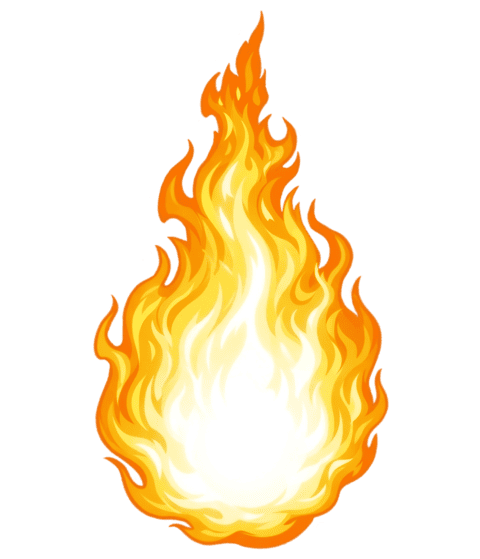
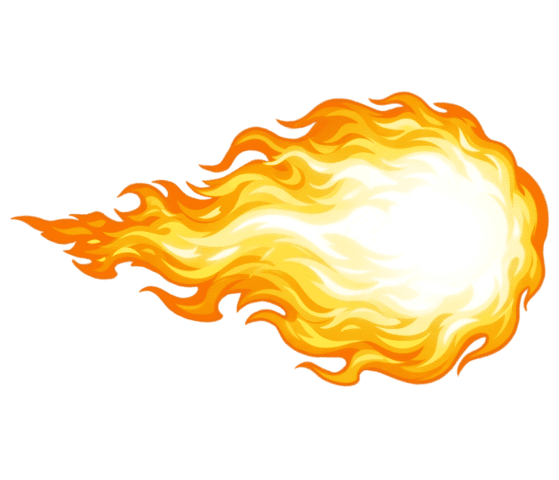
Fix soot, fireball visuals, and jump arc
Soot (flamethrower):
- Double rAF ensures CSS transition fires correctly on restore;
  CPU no longer stays permanently dark after being hit

Fireball:
- New horizontal fireball image (no rotation needed)
- scaleX(-1) via CSS variable for CPU→player direction
- Fireball now stops at target and dissolves with clip-path wipe
  from impact side (core disappears first, tail burns out)
- Removed off-screen continuation

Jump attack:
- Replaced decoupled CSS transition + keyframe with single RAF loop
  controlling X (ease-in-out) and Y (sin parabola) simultaneously
- Landing point calculated from actual defender chest position via
  getBoundingClientRect — no more hardcoded 67%
- Running jump variant (35% chance): bigger arc (-170px vs -132px),
  slightly longer duration (1050ms vs 880ms), shows run frames first

diff --git a/index.html b/index.html
@@ -651,13 +651,22 @@
             position: absolute;
             pointer-events: none;
             z-index: 15;
-            width: 52px;
+            width: 82px;
+            height: auto;
             filter: drop-shadow(0 0 8px #ff8800) drop-shadow(0 0 18px #ff4400) brightness(1.1);
+            transform-origin: center center;
         }
         @keyframes fp-fireball-wobble {
-            0%, 100% { transform: rotate(var(--rot, 0deg)) scaleX(1)   scaleY(1);   }
-            25%       { transform: rotate(var(--rot, 0deg)) scaleX(1.06) scaleY(0.96); }
-            75%       { transform: rotate(var(--rot, 0deg)) scaleX(0.96) scaleY(1.06); }
+            0%, 100% { transform: scaleX(var(--flip,1)) scaleY(1);    }
+            40%       { transform: scaleX(var(--flip,1)) scaleY(0.88); }
+        }
+        @keyframes fb-dissolve-right {
+            0%   { clip-path: inset(0 0%   0 0); opacity: 1; }
+            100% { clip-path: inset(0 100% 0 0); opacity: 0; }
+        }
+        @keyframes fb-dissolve-left {
+            0%   { clip-path: inset(0 0 0 0%  ); opacity: 1; }
+            100% { clip-path: inset(0 0 0 100%); opacity: 0; }
         }
 
         .fp-projectile {
@@ -14374,51 +14383,84 @@
                 stopRunAnimation(attackerEl);
                 playFootstep();
             } else if (event.jumpAttack) {
-                // Jump attack: arc up toward opponent, last attack frame at peak (rotated), landing reverse anim
-                const jaImg  = attackerEl.querySelector('img.character-png');
-                const jaBody = attackerEl.querySelector('.fighter-body');
-                const jaPeakAnimType = attackType; // punch or kick
-                const jaPeakFrames   = jaImg?.['_' + jaPeakAnimType + 'Frames'] || [];
-                // Rotation: punch 35°, kick 45° — mirrored for CPU
-                const rotAngle  = jaPeakAnimType === 'kick' ? 45 : 35;
-                // CPU img already has scaleX(-1) via CSS — must include it in inline transform
-                // or the flip is lost. Player has no base flip so just rotate.
-                const isCpuAtt  = attacker === 'cpu';
-                const baseXform = isCpuAtt ? 'scaleX(-1) ' : '';
+                const jaImg      = attackerEl.querySelector('img.character-png');
+                const jaPeakFrames = jaImg?.['_' + attackType + 'Frames'] || [];
+                const rotAngle   = attackType === 'kick' ? 45 : 35;
+                const isCpuAtt   = attacker === 'cpu';
+                const baseXform  = isCpuAtt ? 'scaleX(-1) ' : '';
 
+                // Running jump variant (35%): bigger arc + brief run-up
+                const isRunningJump = Math.random() < 0.35;
+                const JUMP_DUR  = isRunningJump ? 1050 : 880;
+                const PEAK_H    = isRunningJump ? -170 : -132;
+
+                // Airborne pose
                 if (jaImg) {
                     jaImg._idleSrc = jaImg._idleSrc || jaImg.src;
-                    // Frame 8 = airborne pose
                     jaImg.src = jaImg._runFrames?.[8] || jaImg.src;
-                    // At peak (~400ms): last attack frame, rotated diagonally downward
-                    if (jaPeakFrames.length > 0) {
-                        setTimeout(() => {
-                            jaImg.src = jaPeakFrames[jaPeakFrames.length - 1];
-                            jaImg.style.transition = 'transform 0.08s ease-out';
-                            jaImg.style.transform  = `${baseXform}rotate(${rotAngle}deg)`;
-                        }, 400);
-                    }
                 }
 
-                // Arc + horizontal travel — ease-in-out so arrival is gradual (less vertical drop feel)
-                if (jaBody) jaBody.classList.add('jump-attack-arc');
-                attackerEl.style.transition = 'left 0.93s ease-in-out, right 0.93s ease-in-out';
-                if (attacker === 'player') attackerEl.style.left  = '67%';
-                else                       attackerEl.style.right = '67%';
-                await sleep(950);
-                attackerEl.style.transition = '';
-                if (jaBody) jaBody.classList.remove('jump-attack-arc');
+                // Precise landing: attacker center lands at defender chest center
+                const arenaEl   = document.getElementById('arena');
+                const zoom      = getGameZoom();
+                const arenaRect = arenaEl.getBoundingClientRect();
+                const atkRect   = attackerEl.getBoundingClientRect();
+                const defBodyEl = defenderEl.querySelector('.fighter-body') || defenderEl;
+                const defRect   = defBodyEl.getBoundingClientRect();
+                const atkW      = atkRect.width  / zoom;
+                const arenaW    = arenaEl.offsetWidth;
+                const startLeft = (atkRect.left - arenaRect.left) / zoom;
+                const atkCx     = startLeft + atkW / 2;
+                const defCx     = (defRect.left - arenaRect.left) / zoom + (defRect.width / zoom) / 2;
+                const deltaX    = defCx - atkCx;
+
+                // Peak attack frame
+                const peakMs = JUMP_DUR * (isRunningJump ? 0.40 : 0.36);
+                let peakDone = false;
+                const peakTmr = setTimeout(() => {
+                    if (!peakDone && jaImg && jaPeakFrames.length > 0) {
+                        peakDone = true;
+                        jaImg.src = jaPeakFrames[jaPeakFrames.length - 1];
+                        jaImg.style.transition = 'transform 0.08s ease-out';
+                        jaImg.style.transform  = `${baseXform}rotate(${rotAngle}deg)`;
+                    }
+                }, peakMs);
+
+                if (isRunningJump) animateRun(attackerEl, false, null);
+
+                // RAF: X ease-in-out + Y parabolic arc — both in sync
+                attackerEl.style.transition = 'none';
+                const jaEase = t => t < 0.5 ? 2*t*t : -1+(4-2*t)*t;
+                await new Promise(res => {
+                    const t0 = performance.now();
+                    const step = now => {
+                        const t  = Math.min((now - t0) / JUMP_DUR, 1);
+                        const tx = deltaX * jaEase(t);
+                        const ty = PEAK_H  * Math.sin(Math.PI * t);
+                        attackerEl.style.transform = `translate(${tx}px,${ty}px)`;
+                        if (t < 1) { requestAnimationFrame(step); return; }
+                        // Commit final position, clear transform
+                        attackerEl.style.transform = '';
+                        const finalLeft = startLeft + deltaX;
+                        if (!isCpuAtt) {
+                            attackerEl.style.left  = (finalLeft / arenaW * 100) + '%';
+                        } else {
+                            attackerEl.style.right = ((arenaW - finalLeft - atkW) / arenaW * 100) + '%';
+                        }
+                        res();
+                    };
+                    requestAnimationFrame(step);
+                });
+
+                clearTimeout(peakTmr);
                 stopRunAnimation(attackerEl);
                 playFootstep();
 
-                // Reset rotation on landing
+                // Reset image rotation on landing
                 if (jaImg) {
                     jaImg.style.transition = 'transform 0.15s ease-out';
                     jaImg.style.transform  = isCpuAtt ? 'scaleX(-1)' : '';
-                    setTimeout(() => {
-                        jaImg.style.transition = '';
-                        if (isCpuAtt) jaImg.style.transform = '';
-                    }, 180);
+                    setTimeout(() => { jaImg.style.transition = ''; if (isCpuAtt) jaImg.style.transform = ''; }, 180);
                 }
             } else {
                 // Normal first hit: run from starting corner to opponent
@@ -17082,51 +17124,43 @@
                 case 'fire':
                     if (power.includes('fireball')) {
                         const fbFromLeft  = caster === 'player';
-                        const fbArenaW    = arena.offsetWidth;
-                        const fbArenaH    = arena.offsetHeight;
-                        // Angle image: keep roughly upright, just lean ~20° in travel direction
-                        const fbRot       = fbFromLeft ? -20 : 20;
-                        // Travel endpoint well off-screen past the target
-                        const fbEndX      = fbFromLeft ? fbArenaW * 1.25 : -fbArenaW * 0.25;
-                        const fbEndY      = tp.y - 26; // aim at target center height
-                        const FB_TRAVEL   = 700;  // ms to reach target hit point
+                        const FB_TRAVEL   = 680;  // ms to reach target
                         const FB_INTERVAL = 920;  // ms between fireballs
+                        const fbFlip      = fbFromLeft ? 1 : -1;
+                        const fbImgH      = 46;   // half-height offset (image ~92px tall)
+                        const fbImgW      = 41;   // half-width  offset (image ~82px wide)
 
                         for (let fi = 0; fi < 3; fi++) {
                             setTimeout(() => {
-                                const fb    = document.createElement('img');
-                                fb.src      = 'Assets/Player/Effects/Fireball.png';
+                                const fb = document.createElement('img');
+                                fb.src   = 'Assets/Player/Effects/Fireball.png';
                                 fb.className = 'fp-fireball';
-                                const fbStartX = cp.x - 26;
-                                const fbStartY = cp.y - 52;
+                                const fbStartX = cp.x - fbImgW;
+                                const fbStartY = cp.y - fbImgH;
                                 fb.style.left = fbStartX + 'px';
                                 fb.style.top  = fbStartY + 'px';
-                                fb.style.setProperty('--rot', fbRot + 'deg');
-                                fb.style.animation = 'fp-fireball-wobble 0.28s ease-in-out infinite';
+                                // Flip for CPU→player (going left)
+                                fb.style.setProperty('--flip', fbFlip);
+                                fb.style.animation = 'fp-fireball-wobble 0.32s ease-in-out infinite';
                                 arena.appendChild(fb);
 
-                                // RAF travel loop — linear movement to off-screen
-                                const fbTStart   = performance.now();
-                                const fbTotalDur = FB_TRAVEL * (1 + (fbEndX - cp.x) / (tp.x - cp.x + 0.01) * 0.4);
-                                const fbDx       = fbEndX - fbStartX;
-                                const fbDy       = fbEndY - fbStartY;
-                                // Compute how far along [0..1] the target is
-                                const fbTotalDist = Math.sqrt(fbDx * fbDx + fbDy * fbDy);
-                                const fbTargDist  = Math.sqrt((tp.x - 26 - fbStartX) ** 2 + (tp.y - 52 - fbStartY) ** 2);
-                                const fbHitFrac   = fbTargDist / fbTotalDist;
-                                // Total animation time = FB_TRAVEL / fbHitFrac so target is hit at FB_TRAVEL ms
-                                const fbAnimDur   = Math.min(FB_TRAVEL / Math.max(fbHitFrac, 0.3), 2200);
+                                // Travel toward target (stop there — no off-screen continuation)
+                                const fbEndX  = tp.x - fbImgW;
+                                const fbEndY  = tp.y - fbImgH;
+                                const fbTStart = performance.now();
 
                                 const animFb = (now) => {
-                                    const t = Math.min((now - fbTStart) / fbAnimDur, 1);
-                                    fb.style.left = (fbStartX + fbDx * t) + 'px';
-                                    fb.style.top  = (fbStartY + fbDy * t) + 'px';
-                                    if (t < 1) requestAnimationFrame(animFb);
-                                    else fb.remove();
+                                    const t = Math.min((now - fbTStart) / FB_TRAVEL, 1);
+                                    fb.style.left = (fbStartX + (fbEndX - fbStartX) * t) + 'px';
+                                    fb.style.top  = (fbStartY + (fbEndY - fbStartY) * t) + 'px';
+                                    if (t < 1) { requestAnimationFrame(animFb); return; }
+                                    // Arrived at target — dissolve from impact side
+                                    fb.style.animation = `fb-dissolve-${fbFromLeft ? 'right' : 'left'} 0.32s ease-in forwards`;
+                                    fb.addEventListener('animationend', () => fb.remove(), { once: true });
                                 };
                                 requestAnimationFrame(animFb);
 
-                                // Impact at target position when fireball passes through
+                                // Impact effects at target
                                 setTimeout(() => {
                                     spawnImpact(tp.x, tp.y, 65, '#ff5500', 0);
                                     spawnParticles(tp.x, tp.y, fi === 0 ? 14 : 8, '#ff4400', 55);
@@ -17248,15 +17282,17 @@
                                 spawnImpact(tp.x, tp.y, 70, '#ff4400');
                                 spawnParticles(tp.x, tp.y, 8, '#ff6600');
                                 showHitEffect(target, 'normal');
-                                // Soot / charred effect: darken target for 2s, then fade out over 1s
+                                // Soot / charred effect: darken target for 2s, then fade out over 1.2s
                                 const sootImg = game[target]?.element?.querySelector('img');
                                 if (sootImg) {
-                                    const prevFilter = sootImg.style.filter || '';
                                     sootImg.style.transition = 'filter 0.08s ease-in';
                                     sootImg.style.filter = 'brightness(0.12) grayscale(1) contrast(1.4)';
                                     setTimeout(() => {
-                                        sootImg.style.transition = 'filter 1s ease-out';
-                                        sootImg.style.filter = prevFilter;
+                                        sootImg.style.transition = 'filter 1.2s ease-out';
+                                        // Double rAF ensures transition is active before the filter change
+                                        requestAnimationFrame(() => requestAnimationFrame(() => {
+                                            sootImg.style.filter = '';
+                                        }));
                                     }, 2000);
                                 }
                             }
